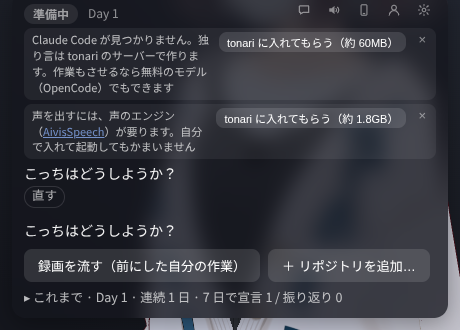
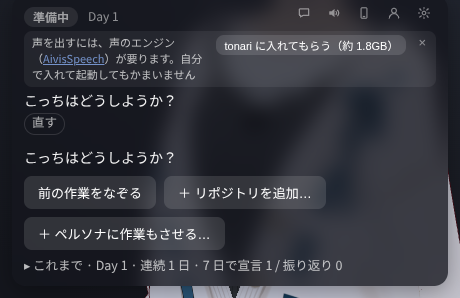
README を 0.8.0 の使い方に合わせる

diff --git a/README.md b/README.md
@@ -2,11 +2,11 @@
 
 隣で誰かが作業していると、不思議と手が進む。
 
-画面の隅で AI が黙々と自分の作業をしていて、ときどき独り言が聞こえます。その隣で自分の作業をして、25 分たつと休憩。「そっちどう？」と声がかかります。
+画面の隅で AI が黙々と自分の作業をしていて、ときどき独り言が聞こえます。その隣で自分の作業をして、休みたくなったら休憩。そのあいだは AI も手を止めます。作業を終えたら、少し雑談もできます。
 
 この AI を、アプリの中では「ペルソナ」と呼んでいます。
 
-<img src="images/screenshot.png" alt="休憩中の tonari。ペルソナが画面の隅にいて、パネルに残り時間と「そっちどう？」の入力欄が出ている" width="360">
+<img src="images/screenshot.png" alt="休憩中の tonari。ペルソナが画面の隅にいて、パネルに休憩の残り時間とペルソナに話しかける入力欄が出ている" width="360">
 
 ## 入れる
 
@@ -31,15 +31,18 @@
 
 ### 1. 考えるのに使う AI を入れる（任意）
 
-入れなくても始められます。使える AI が無いときは、独り言と休憩の会話を tonari のサーバーで作ります。ペルソナの作業は「録画を流す」か「見守る」になります。インストーラで入れた版は、Claude のログインを使いません。
+入れなくても始められます。使える AI が無いときは、独り言と休憩の会話を tonari のサーバーで作ります。ペルソナの作業は「前の作業をなぞる」か「見守る」になります。インストーラで入れた版は、Claude Code を使いません。
 
-ペルソナに本当に作業もさせるなら、AI を入れます。パネルの案内か、設定（歯車）の「作業に使う AI」で「tonari に入れてもらう」を押します。tonari が [OpenCode](https://opencode.ai/) を入れます（約 60MB）。自分で入れている OpenCode とは別に置きます。モデルも設定で選べます。
+ペルソナに本当に作業もさせるなら、作業の選択の「＋ ペルソナに作業もさせる…」を押します。設定の「作業に使う AI」が開くので、次のどちらかを選びます。
 
-<img src="images/first-start.png" alt="初めて起動したときのパネル。「Claude Code が見つかりません。独り言は tonari のサーバーで作ります」の案内に「tonari に入れてもらう（約 60MB）」のボタンがある。声のエンジンの案内にも「tonari に入れてもらう（約 1.8GB）」のボタンがあり、その下に「そっちは今日なにやる？」の入力欄がある" width="360">
+- **OpenCode:** 「tonari に入れてもらう」を押すと、tonari が [OpenCode](https://opencode.ai/) を入れます（約 60MB）。自分で入れている OpenCode とは別に置きます。無料のモデルもあります
+- **Codex:** 先に [Codex CLI](https://developers.openai.com/codex/cli/) を入れ、端末で `codex login` を実行しておきます。使うのはその Codex の利用枠か API の費用です
+
+<img src="images/choose-work.png" alt="AI が無いときの作業の選択。「こっちはどうしようか？」の問いに「前の作業をなぞる」「＋ リポジトリを追加…」「＋ ペルソナに作業もさせる…」のボタンが出ている" width="360">
 
 無料のモデルは期間限定で、送った内容が提供元の学習に使われるものがあります。
 
-Anthropic の API キーで Claude を使うこともできます（「もっと細かく」の「Anthropic の API キーで使う」）。独り言とペルソナの作業の分だけ、API の利用料がかかります。
+Anthropic の API キーで、独り言を Claude で作ることもできます（「もっと細かく」の「Anthropic の API キーで使う」）。
 
 ### 2. 声を出す（任意）
 
@@ -63,30 +66,33 @@ Anthropic の API キーで Claude を使うこともできます（「もっと
 
 ## 使う
 
-1. 「そっちは今日なにやる？」に、今日やることを一言で答える
-2. ペルソナの作業を選ぶ
+1. 「そっちは今日なにやる？」に、今日やることを一言で答える。初めてのペルソナは、その前にあなたの名前を聞きます
+2. 入力欄の下で、作業時間（決めない・30 分〜2 時間）と、25 分ごとに休憩するか（ポモドーロ）を選ぶ。次の回も同じになる
+3. ペルソナの作業を選ぶ
    - **自分のプロジェクト:** ペルソナが自分の作業場所でアプリを作る（AI を使えるときだけ）
-   - **録画を流す:** 前にした作業の記録を、そのままの順で流す（録画があるときだけ。ペルソナは考えず、独り言だけ作る）
+   - **前の作業をなぞる:** 前にした作業の記録を、そのままの順でなぞる（録画があるときだけ。ペルソナは考えず、独り言だけ作る）
    - **見守る:** 別に回している Claude Code の作業を、ペルソナの作業として見せる
    - **手伝う:** 手元のリポジトリの作業を一部任せる（AI を使えるときだけ）
-3. ペルソナが隣で作業を始める。こちらも自分の作業をする
-4. 区切りで休憩。休憩中は、入力欄からペルソナと短く話せる
-5. 終わるときに「どこまでいった？」と聞かれ、宣言どおりに進んだかと集中度（1〜5）をボタンで答える
+4. ペルソナが隣で作業を始める。こちらも自分の作業をする
+5. 休みたくなったら「休憩する」を押す。休憩中は、入力欄からペルソナと短く話せる。「再開する」を押すか、席を離れて 5 分以上たってから戻ると、作業に戻る
+6. 作業時間が来ると、ペルソナが「おしまいにする / もう少しやる」を聞く。決めていなければ「ここで終わる」で終える
+7. 「どこまでいった？」と聞かれ、宣言どおりに進んだかと集中度（1〜5）をボタンで答える。そのあとは雑談の時間で、「おしまい」を押すまで話せる
 
-新しく作ったペルソナには、作り手が前に収録した作業の録画が入っていて、初日から流せます。独り言と休憩中の会話は、そのときのペルソナがその場で考えて話します。
+<img src="images/declare.png" alt="今日やることの入力欄の下に、「作業時間」の選択（決めない）と「25分ごとに休憩する（ポモドーロ）」のチェックがある" width="360">
 
-<img src="images/choose-work.png" alt="AI が無いときの作業の選択。「Claude Code が見つかりません」の案内の下で、「こっちはどうしようか？」の問いに「録画を流す（前にした自分の作業）」と「リポジトリを追加...」のボタンが出ている" width="360">
+新しく作ったペルソナには、作り手が前に収録した作業の録画が入っていて、初日からなぞれます。独り言と休憩中の会話は、そのときのペルソナがその場で考えて話します。
 
 窓の × で終えるときも、締めの一言のあとに終わりの画面が出ます。「閉じる」でアプリを終了します。
 
 ## 設定を変える
 
 - ペルソナ画面（パネル右上の人の形）では、ペルソナの追加と切り替え、名前・見た目（VRM）・声を変えられます
-- 設定（歯車）では、作業と休憩の長さや、独り言の量を変えられます
+- 設定（歯車）では、作業の区切りとポモドーロの休憩の長さや、独り言の量を変えられます
 - 音のバランスとペルソナの打つ速さも、設定（歯車）で変えられます
-- 作業に使う AI とそのモデルも、設定（歯車）で選べます。効くのは次に起動したときからです
+- あなたの名前と、ペルソナからの呼び方も、設定（歯車）で変えられます
+- 作業に使う AI とそのモデルも、設定（歯車）で選べます。その日の作業を始めたあとに変えたら、次に起動したときからです
 
-どちらも作業中は開けないので、休憩中か始める前に開いてください。画面に無い設定は `user.yaml` に書きます。初めて起動したときに、書ける項目をコメントにして作ります。
+どちらも作業中に開けます。ペルソナの切り替えだけは、始める前にしてください。画面に無い設定は `user.yaml` に書きます。初めて起動したときに、書ける項目をコメントにして作ります。
 
 ペルソナが走らせたテストなどがメモリを使いすぎたときは、そのプロセスだけを止めます。上限は `user.yaml` の `agent:` の `memory_limit_mb`（MB。既定は 8GB と使えるメモリの半分の小さいほう。0 で止めません）。
 
@@ -98,7 +104,7 @@ Anthropic の API キーで Claude を使うこともできます（「もっと
 - 「見守る」では、Claude が書いたコミットの件名とブランチ名だけを、独り言の材料にします。ファイルの中身は読みません
 - 「手伝う」では、ペルソナはリポジトリの複製の中で作業し、元のリポジトリには書きません。ただし、そのリポジトリのテストやスクリプトを実行することがあるので、信頼できるリポジトリだけを選んでください
 - ペルソナが書き込めるのは自分の作業場所だけです。コマンドは内容を見て止めていますが、すべては防げません
-- 使える AI が無いときは、独り言の材料を tonari のサーバーに送り、サーバーが AWS の Bedrock で独り言と休憩の会話を作ります。材料は、今日と前の日の宣言と振り返り、休憩中の返事、ペルソナの作業の出来事、セリフの直し、ペルソナの性格です（「見守る」ではコミットの件名とブランチ名も）
+- 使える AI が無いときは、独り言の材料を tonari のサーバーに送り、サーバーが AWS の Bedrock で独り言と休憩の会話を作ります。材料は、今日と前の日の宣言と振り返り、休憩中と雑談での返事、あなたの名前と呼び方、ペルソナの作業の出来事、セリフの直し、ペルソナの性格です（「見守る」ではコミットの件名とブランチ名も）
 - tonari のサーバーは、本文と IP アドレスを残しません。残すのは、無記名のトークンのハッシュ、日ごとの回数、送信元を見分けるために IP アドレスから作った値です。月額プランの申し込みには Stripe の顧客・申し込みの番号と状態も結びます。名前・メールアドレス・カード情報は Stripe が持ちます。アカウントは要りません
 - 起動時に 1 日 1 回、新しい版があるかを GitHub に聞き、出ていればパネルに一言知らせます。利用者を見分けるものは送りません。`user.yaml` に `update_notice: false` と書けば聞きません
 
@@ -108,7 +114,7 @@ Anthropic の API キーで Claude を使うこともできます（「もっと
 
 <img src="images/phone-qr.png" alt="スマホに切り替えたあとの PC の窓。「スマホと繋がっています」と「PC に戻す」のボタン、宛先ごとの QR コード" width="416"> <img src="images/phone.png" alt="スマホに移ったペルソナとパネル。作業中の残り時間と、ペルソナの作業の様子が出ている" width="160">
 
-[Tailscale](https://tailscale.com/) で PC とスマホを繋いでいれば、「Tailscale」の QR で、同じ Wi-Fi でなくても使えます。ただし PC の前にいるものとして動くので、PC を離れている間は「詰まってる？」の声かけが出たり、休憩が終わっても席を離れているとみなして待つことがあります（スマホの「再開」で続きます）。
+[Tailscale](https://tailscale.com/) で PC とスマホを繋いでいれば、「Tailscale」の QR で、同じ Wi-Fi でなくても使えます。ただし PC の前にいるものとして動くので、PC を離れている間は「詰まってる？」の声かけが出ることがあります。ポモドーロの休憩が終わっても待ったり（スマホの「再開」で続きます）、作業のあとの雑談が 5 分で終わったりもします。
 
 スマホで使っている間は画面が消えないようにしますが、消えても繋ぎ直します。
 
@@ -125,7 +131,7 @@ Anthropic の API キーで Claude を使うこともできます（「もっと
 <details>
 <summary>Anthropic の API キーで使う</summary>
 
-[Anthropic の API キー](https://console.anthropic.com/)で Claude を使います。独り言とペルソナの作業の分だけ、API の利用料がかかります。
+[Anthropic の API キー](https://console.anthropic.com/)で、独り言と休憩の会話を Claude で作ります。その分の API の利用料がかかります。ペルソナの作業には使いません（作業は OpenCode か Codex）。
 
 1. tonari を一度起動して閉じます。設定のファイル `user.yaml` ができます
    - Linux・macOS: `~/.local/share/tonari/user/user.yaml`
@@ -165,7 +171,7 @@ AI を使う環境が ssh 先の開発マシンにしかなく、手元のマシ
 3. 手元から `ssh -L 7357:localhost:7357 <開発マシン>` で入り、ブラウザで localhost の URL を開きます。声は手元のブラウザから出ます
 4. 終えるには、ブラウザの「ここで終わる」を押すか、端末で Ctrl+C を押します。振り返りと、終わりの画面の「閉じる」はブラウザで操作します。答えずに止めるには、もう一度 Ctrl+C を押します
 
-「詰まってる？」の声かけと、席を離れたときの休憩の延長はしません。スマホからも、端末に出る QR を読めば使えます（直接繋ぐときは、開発マシンのポート 7357 を開けます）。
+「詰まってる？」の声かけと、席を離れたかの判定（ポモドーロの休憩の延長と、休憩中に戻ってきたら再開すること）はしません。スマホからも、端末に出る QR を読めば使えます（直接繋ぐときは、開発マシンのポート 7357 を開けます）。
 
 </details>
 
